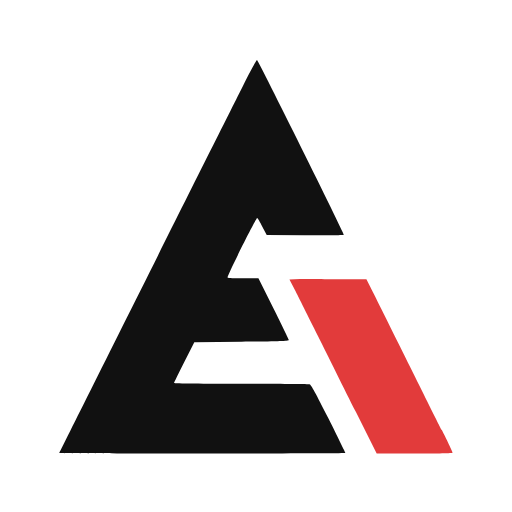
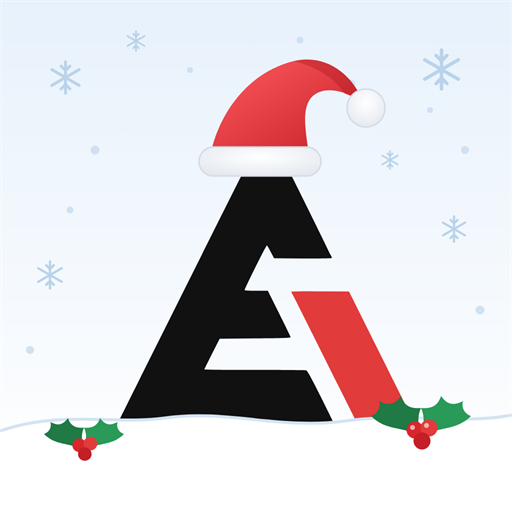
Kersticoon en kerstmuts in de kopbalk

diff --git a/index.html b/index.html
@@ -9,7 +9,7 @@
 <title>Enautec Uren</title>
 <link rel="manifest" href="manifest.webmanifest">
 <link rel="icon" href="logo-mark.svg" type="image/svg+xml">
-<link rel="apple-touch-icon" href="apple-touch-icon.png">
+<link rel="apple-touch-icon" href="apple-touch-icon.png?v=kerst2026">
 <link rel="preconnect" href="https://fonts.googleapis.com">
 <link rel="preconnect" href="https://fonts.gstatic.com" crossorigin>
 <link href="https://fonts.googleapis.com/css2?family=Atkinson+Hyperlegible:wght@400;700&family=Space+Grotesk:wght@500;700&display=swap" rel="stylesheet">
@@ -52,7 +52,8 @@ code { font-size: 13px; word-break: break-all; background: var(--surface2); padd
 .topbar { position: sticky; top: 0; z-index: 10; background: var(--surface); border-bottom: 3px solid var(--red);
   display: flex; align-items: center; justify-content: space-between; gap: 12px; padding: 10px 16px; padding-top: calc(10px + env(safe-area-inset-top)); }
 .brand { display: flex; align-items: center; gap: 10px; text-decoration: none; color: var(--fg); }
-.brand img { width: 34px; height: 32px; }
+.brand img { width: 34px; height: 32px; object-fit: contain; }
+.brand img[src*="kerst"] { width: 38px; height: 40px; margin-top: -6px; }
 .brand b { font-family: var(--font-head); letter-spacing: .18em; font-size: 17px; }
 .brand small { display: block; color: var(--red-text); font-size: 11px; letter-spacing: .02em; }
 @media (prefers-color-scheme: dark) { :root:not([data-theme="light"]) .brand img { filter: invert(1) hue-rotate(180deg); } }
@@ -377,9 +378,14 @@ html.test .topbar::after { content: 'TEST'; position: absolute; right: 50%; bott
 <body>
 <header class="topbar">
   <a class="brand" href="#dag" aria-label="Enautec Uren, naar vandaag">
-    <img src="logo-mark.svg" alt="">
+    <img src="logo-mark.svg" alt="" id="brandMark">
     <span><b>ENAUTEC</b><small>Urenregistratie</small></span>
   </a>
+  <script>
+    // Feestdagen (20 november – 6 januari): logo met kerstmuts
+    (function () { var d = new Date(), m = d.getMonth() + 1, day = d.getDate();
+      if ((m === 11 && day >= 20) || m === 12 || (m === 1 && day <= 6)) document.getElementById('brandMark').src = 'logo-mark-kerst.svg'; })();
+  </script>
   <div class="top-actions">
     <button id="updateBtn" class="update-btn" type="button" hidden aria-label="Update beschikbaar: app bijwerken">
       <svg viewBox="0 0 24 24" width="18" height="18" aria-hidden="true"><path fill="currentColor" d="M12 4V1L8 5l4 4V6a6 6 0 1 1-6 6H4a8 8 0 1 0 8-8z"/></svg>

diff --git a/sw.js b/sw.js
@@ -5,11 +5,11 @@
    - Lettertypes en de Excel-module: bewaarde kopie gebruiken.
    - Google, de verzamelserver (/api/) en Microsoft: nooit bewaren, altijd rechtstreeks.
    VERSION wordt automatisch aangepast door scripts/stamp-version.js bij elke publicatie. */
-const VERSION = '5613a8b891cb';
+const VERSION = 'f3b589084670';
 const CACHE = `enautec-uren-${VERSION}`;
 const SHELL = ['./', './index.html', './app.js', './auth.js', './drive.js', './gdrive.js', './store.js', './day.js', './admin.js',
   './export.js', './engine.js', './geo.js', './time.js', './ui.js', './config.js', './demo.js', './update.js', './geocode.js', './xlsx.js', './report.js', './periods.js', './questions.js', './projects.js', './combo.js', './manifest.webmanifest',
-  './privacy.html', './logo.svg', './logo-mark.svg', './icon-192.png', './icon-512.png', './icon-maskable-512.png', './apple-touch-icon.png'];
+  './privacy.html', './logo.svg', './logo-mark.svg', './logo-mark-kerst.svg', './icon-kerst.svg', './icon-192.png', './icon-512.png', './icon-maskable-512.png', './apple-touch-icon.png'];
 const STATIC_ORIGINS = ['https://fonts.googleapis.com', 'https://fonts.gstatic.com', 'https://cdn.jsdelivr.net'];
 
 self.addEventListener('install', (e) => {
